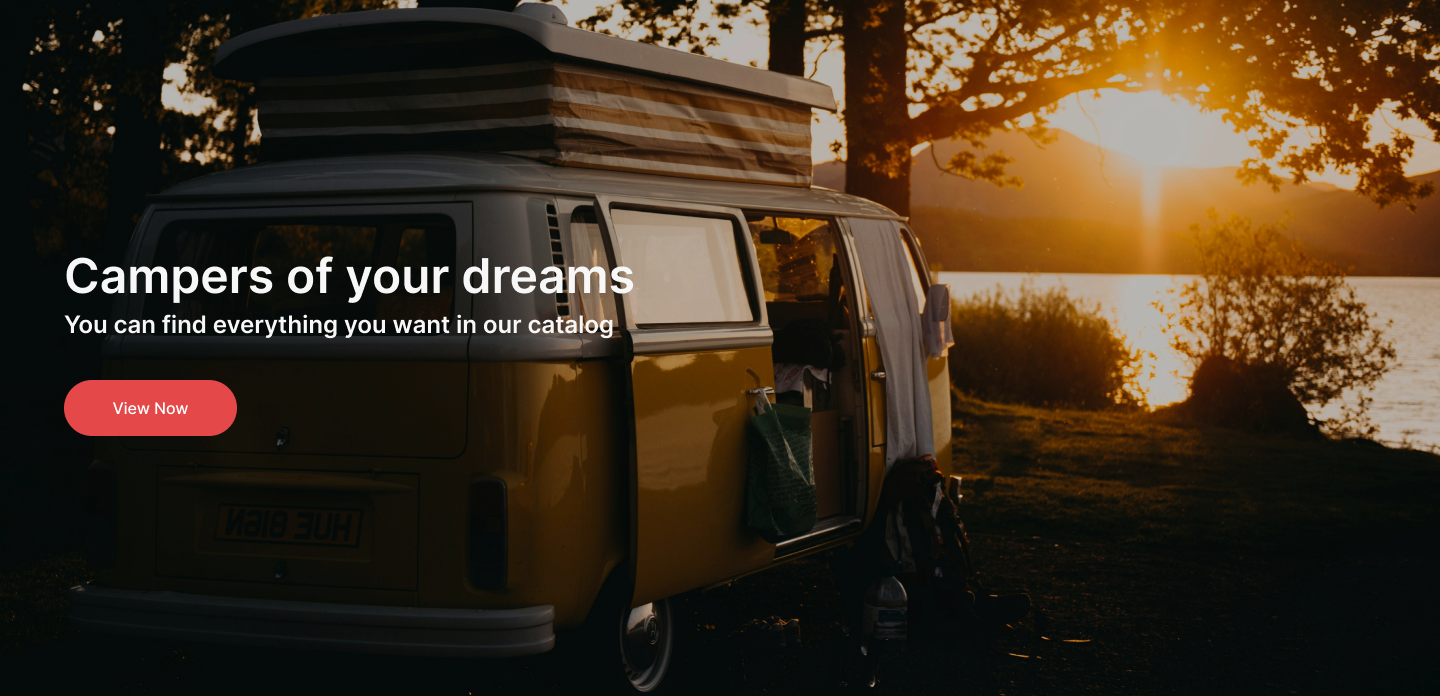
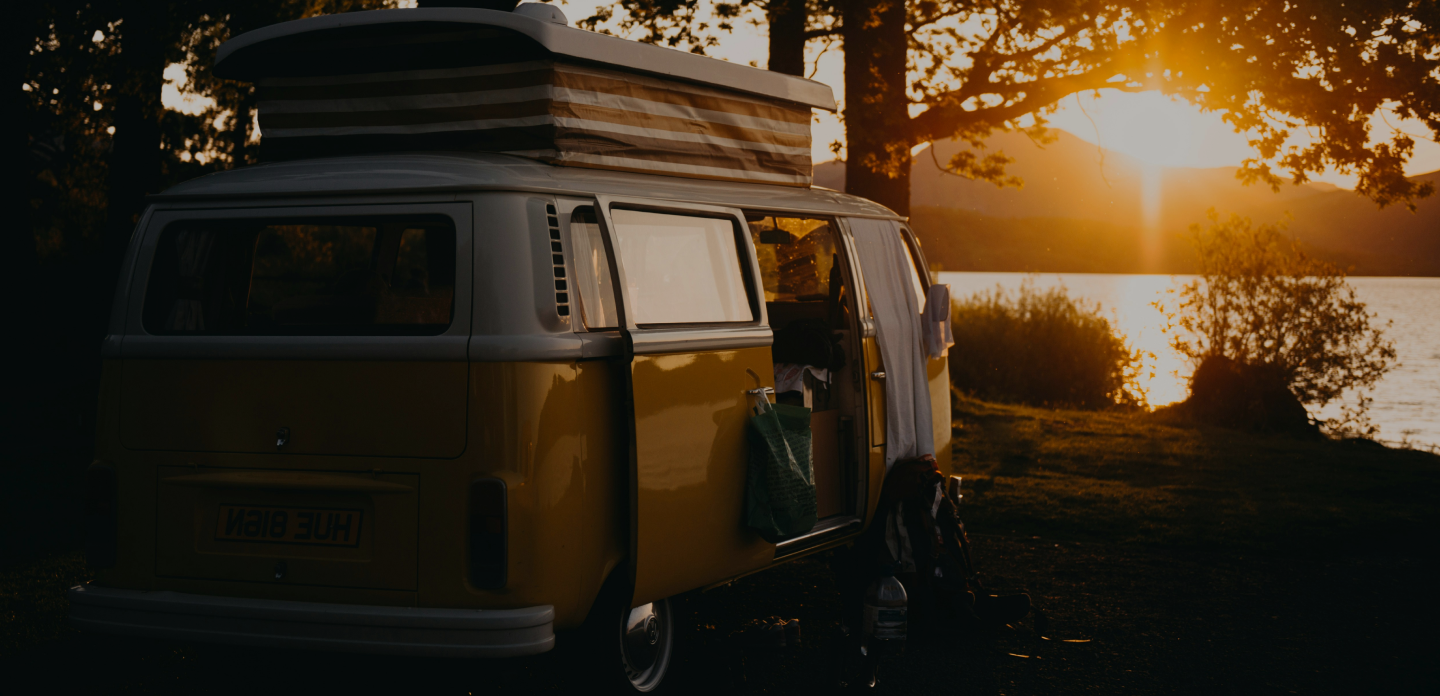
section hero

Changed region(s): [[0.0312, 0.3621, 0.4375, 0.4224], [0.0312, 0.5431, 0.1875, 0.6336], [0.0312, 0.4526, 0.4375, 0.4828]]

diff --git a/src/components/Hero/Hero.module.css b/src/components/Hero/Hero.module.css
@@ -1,0 +1,38 @@
+.heroContainer{
+    background-image: url('../../img/camper-background-2x.png');
+    background-repeat: no-repeat;
+    background-size: cover;
+    height: 92.2vh;
+    display: flex;
+    justify-content: flex-start;
+
+}
+.wrapper{
+    color: var(--inputs);
+}
+.title{
+    margin-bottom: 16px;
+    font-weight: 600;
+        font-size: 48px;
+        line-height: 67%;
+}
+.descr{
+    margin-bottom: 40px;
+    font-weight: 600;
+        font-size: 24px;
+        line-height: 133%;
+}
+.button{
+    border-radius: 200px;
+        padding: 16px 48px;
+        width: 173px;
+        font-weight: 500;
+            font-size: 16px;
+            line-height: 150%;
+            letter-spacing: -0.01em;
+        background: var(--button);
+    color: var(--inputs);
+}
+.button:hover, .button:focus{
+    background: var(--button-hover);
+}

diff --git a/src/components/Hero/Hero.jsx b/src/components/Hero/Hero.jsx
@@ -1,7 +1,22 @@
+import css from "./Hero.module.css";
+import { useNavigate } from "react-router-dom";
+
 export default function Hero() {
+  const navigate = useNavigate();
+
+  const handleButtonClick = () => {
+    navigate("/catalog"); // Переходить на сторінку '/catalog'
+  };
+
   return (
-    <div>
-      
+    <div className={`container ${css.heroContainer}`}>
+      <div className={css.wrapper}>
+      <h1 className={css.title}>Campers of your dreams</h1>
+      <p className={css.descr}>You can find everything you want in our catalog</p>
+      <button className={css.button} type="button" onClick={handleButtonClick}>
+        View Now
+        </button>
+        </div>
     </div>
   );
-};
+}

diff --git a/src/components/App.jsx b/src/components/App.jsx
@@ -1,6 +1,6 @@
 
 import { Route, Routes } from 'react-router-dom'
-import Home from './Header/Header'
+import HomePage from '../pages/HomePage/HomePage'
 import Catalog from '../pages/Catalog/Catalog'
 import Product from '../pages/Product/Product'
 
@@ -8,7 +8,7 @@ function App() {
   return (
     <>
     <Routes>
-        <Route path="/" element={<Home />} />
+        <Route path="/" element={<HomePage />} />
         <Route path="/catalog" element={<Catalog />} />
         <Route path="/catalog/:id" element={<Product />} />
       </Routes>

diff --git a/src/pages/Catalog/Catalog.jsx b/src/pages/Catalog/Catalog.jsx
@@ -3,7 +3,7 @@ import css from "./Catalog.module.css"
 
 const Catalog = () => {
   return (
-    <div className={css.section}>
+    <div>
               <Header />
               
         </div>

diff --git a/src/Styles/base.css b/src/Styles/base.css
@@ -33,6 +33,7 @@ margin: 0 auto;
   justify-content: center;
   font-family: "Inter", sans-serif;
   line-height: 1.5;
+  overflow-x: hidden;
 }
 
 a {
